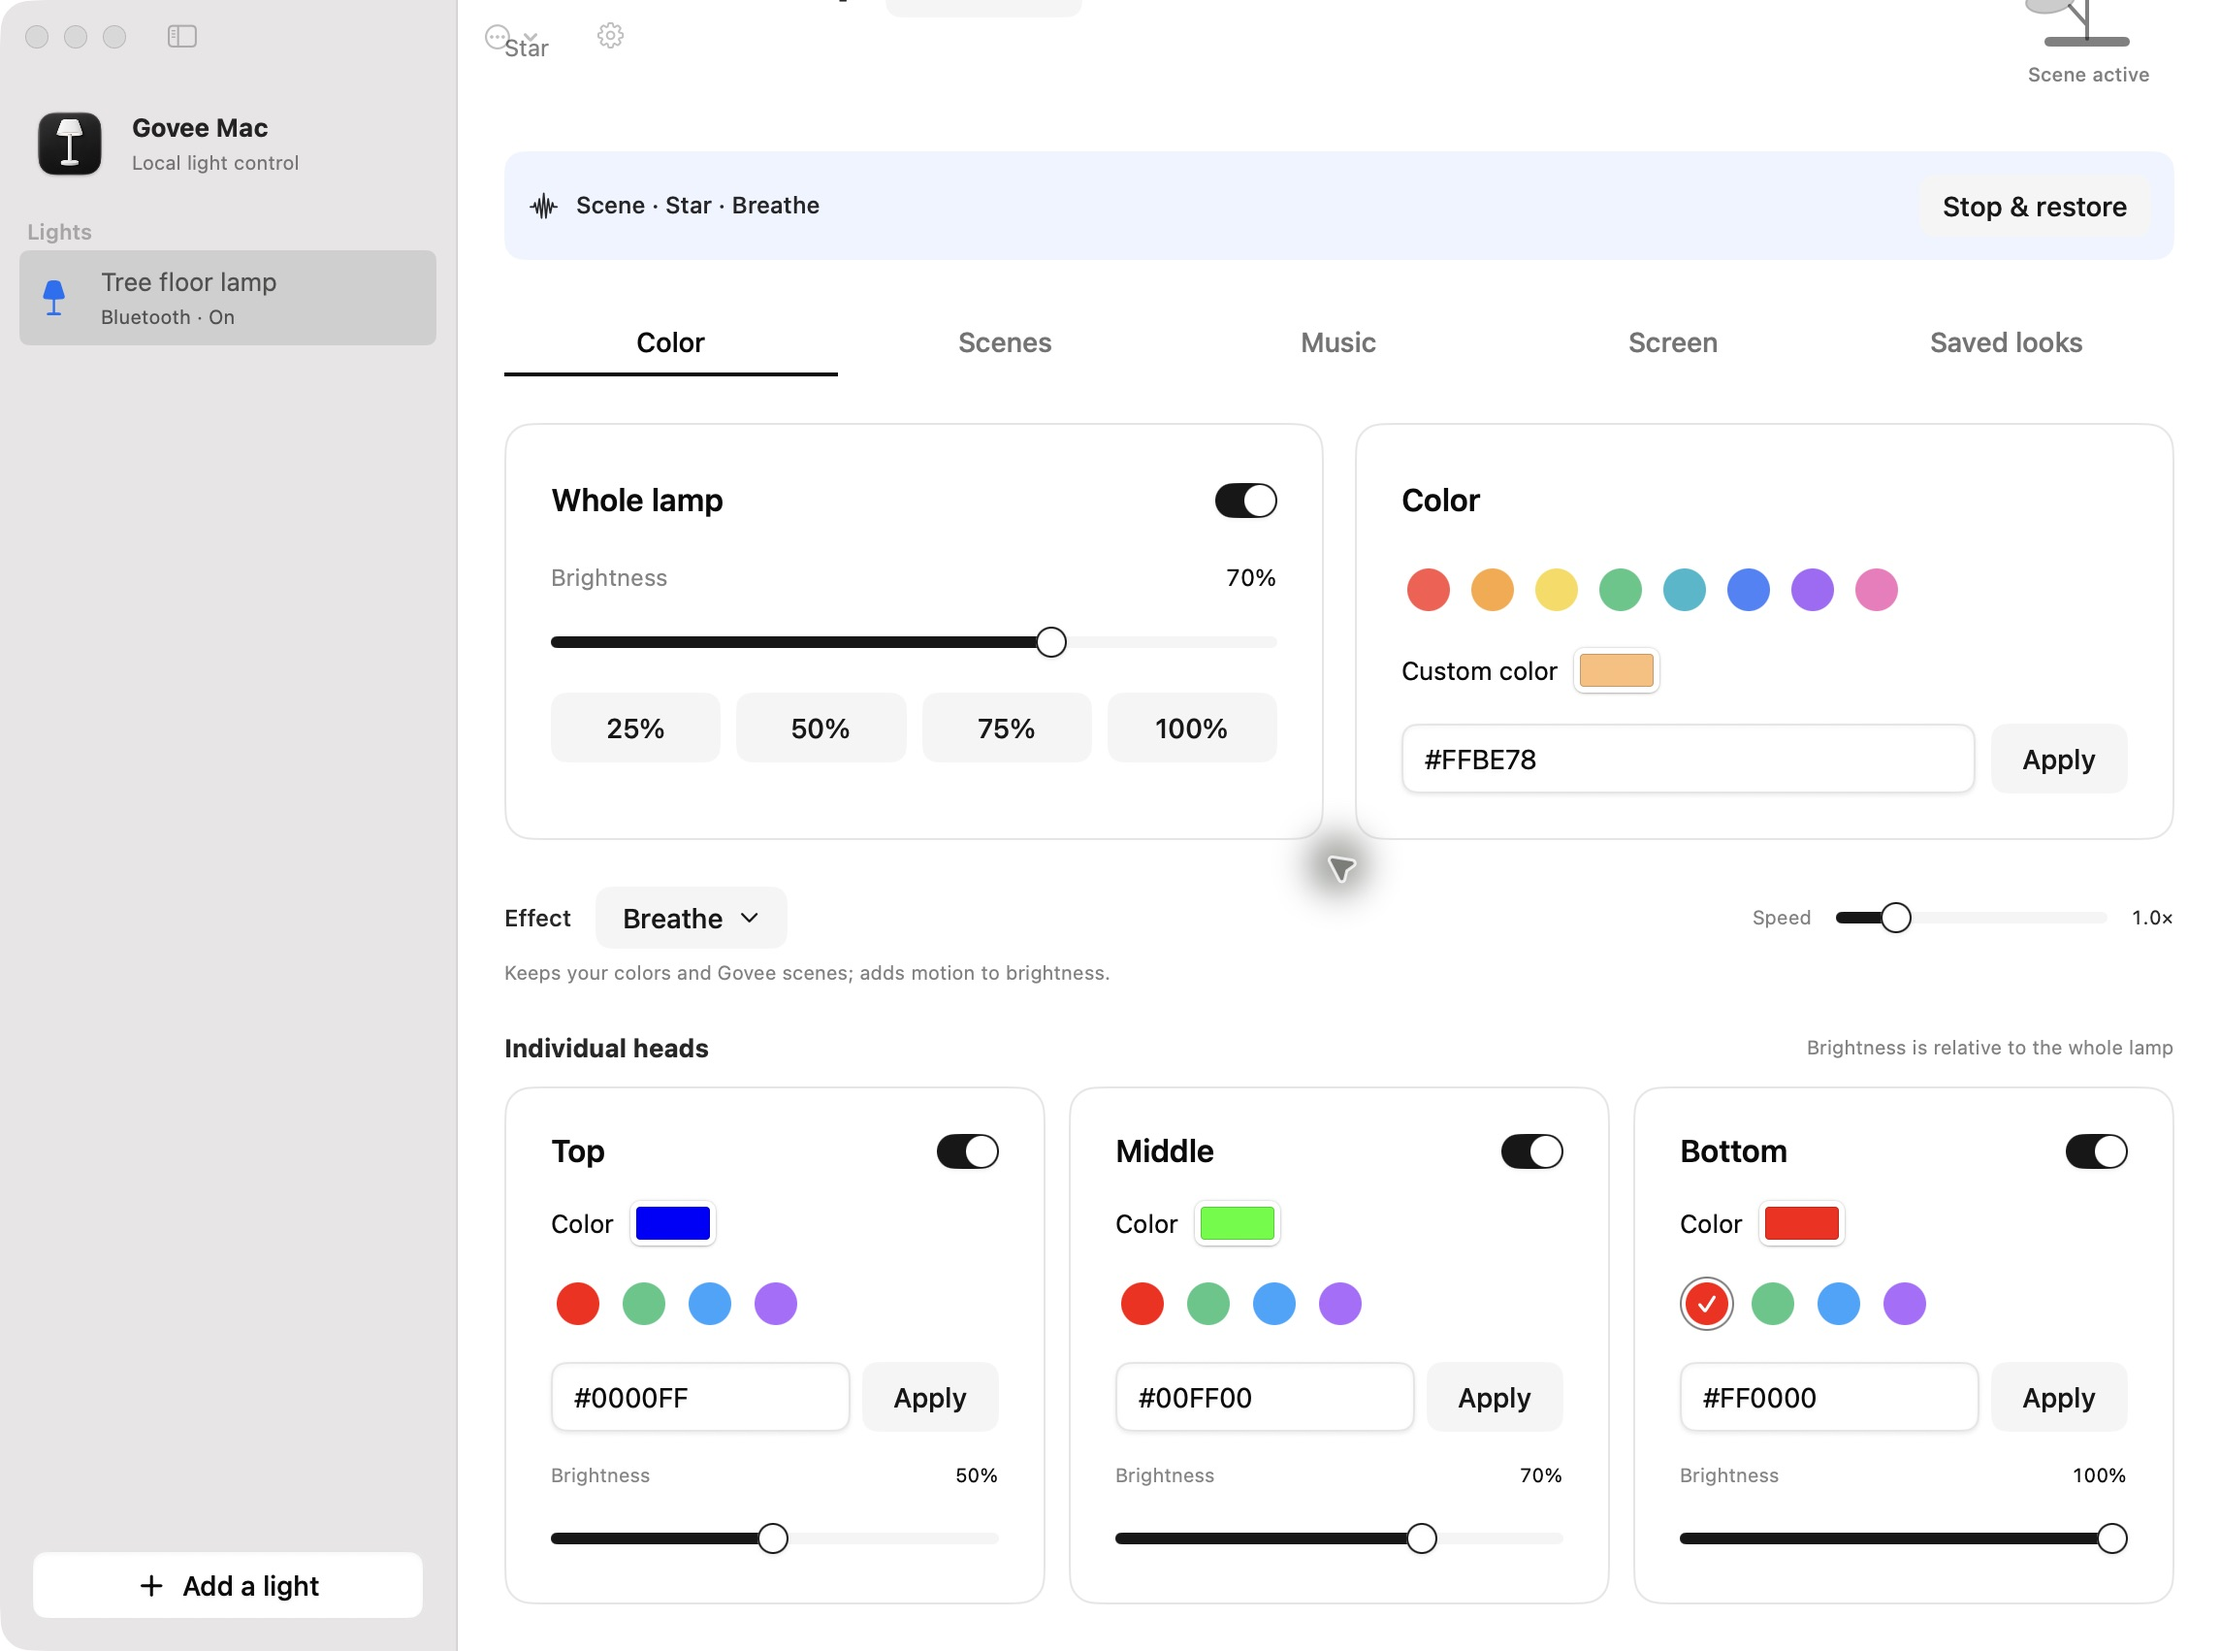
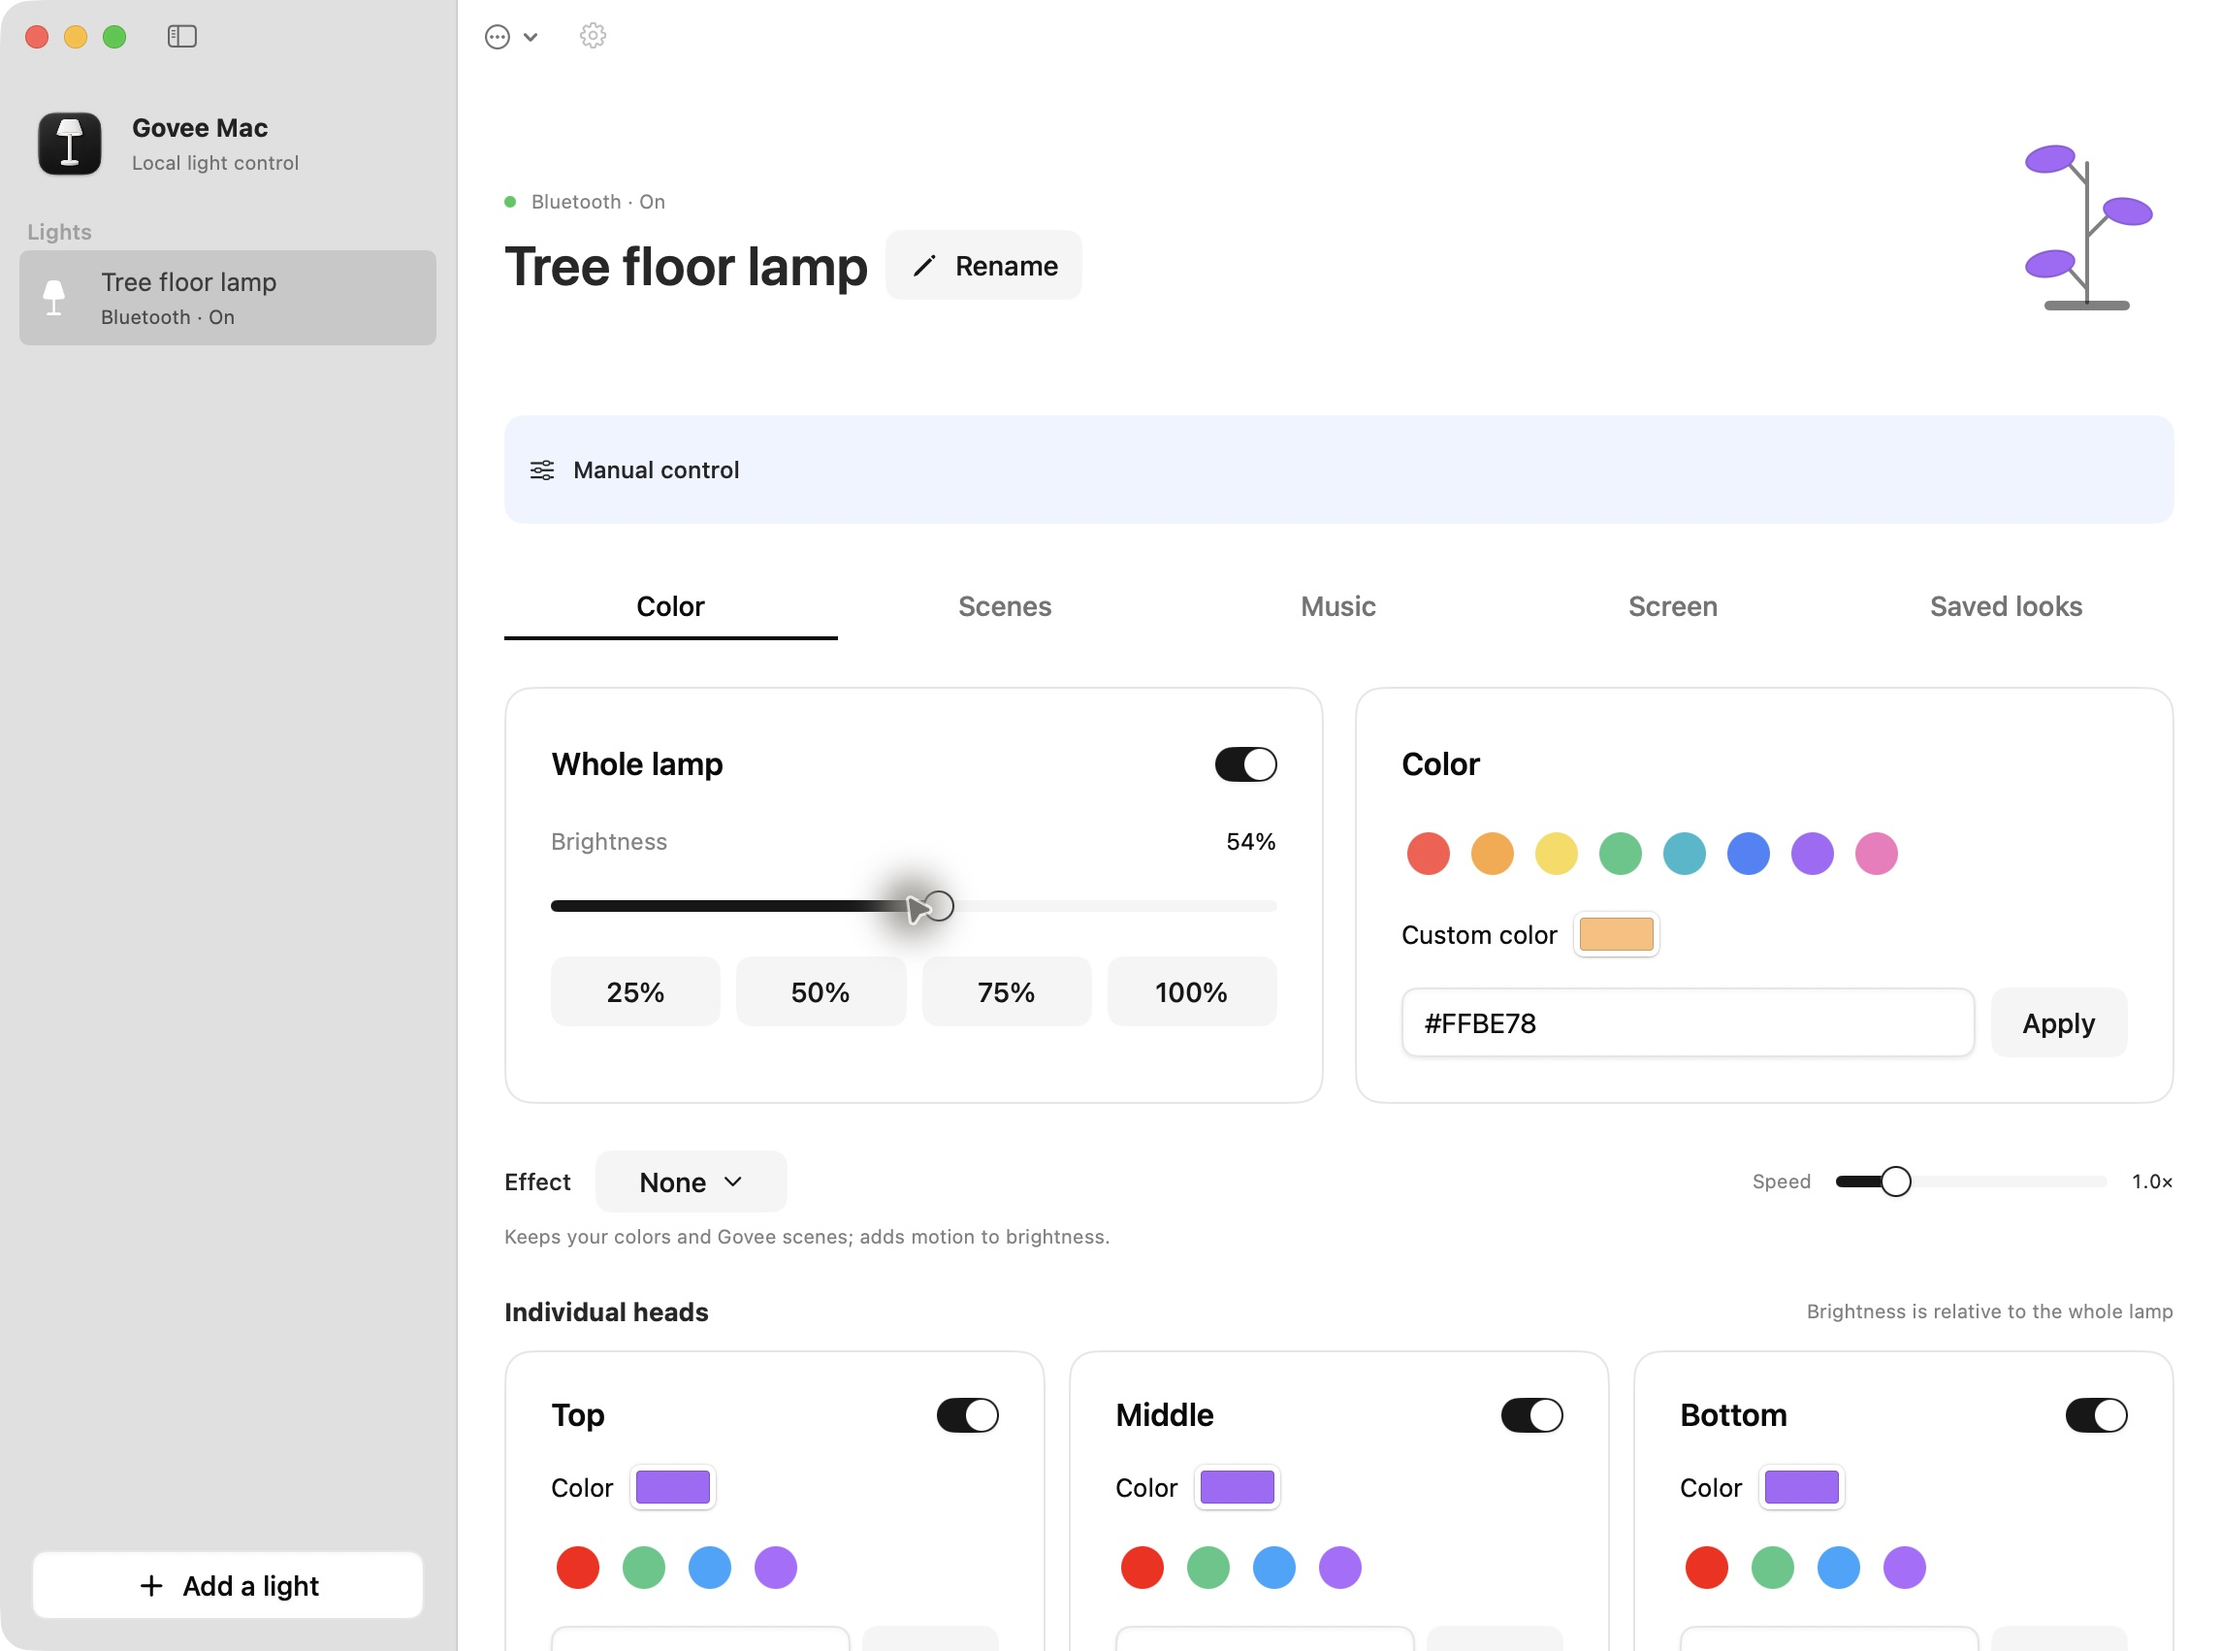
Align the light header and hide slider focus rectangles

diff --git a/Sources/GoveeMac/Views/LightControlsView.swift b/Sources/GoveeMac/Views/LightControlsView.swift
@@ -28,6 +28,7 @@ struct LightControlsView: View {
                     Text("\(Int(brightness))%").font(.callout.monospacedDigit())
                 }
                 ShadcnSlider(value: Binding(get: { brightness }, set: { brightness = $0; store.send(.brightness(Int($0.rounded())), to: device.id, debounce: true) }), in: 1...100, step: 1)
+                    .focusEffectDisabled()
                     .accessibilityLabel("Brightness")
                     .simultaneousGesture(DragGesture(minimumDistance: 0).onChanged { _ in editingBrightness = true }.onEnded { _ in editingBrightness = false })
 
@@ -48,6 +49,7 @@ struct LightControlsView: View {
                 if white {
                     HStack { Text("Temperature").foregroundStyle(.secondary); Spacer(); Text("\(Int(temperature)) K").monospacedDigit() }.font(.callout)
                     ShadcnSlider(value: Binding(get: { temperature }, set: { temperature = $0; store.send(.temperature(Int($0.rounded())), to: device.id, debounce: true) }), in: 2000...9000, step: 100)
+                        .focusEffectDisabled()
                         .accessibilityLabel("White temperature")
                         .simultaneousGesture(DragGesture(minimumDistance: 0).onChanged { _ in editingTemperature = true }.onEnded { _ in editingTemperature = false })
 

diff --git a/Sources/GoveeMac/Views/DeviceDetailView.swift b/Sources/GoveeMac/Views/DeviceDetailView.swift
@@ -78,13 +78,11 @@ struct DeviceDetailView: View {
                     Circle().fill(device.isAvailable ? Color.green : Color.secondary).frame(width: 6, height: 6)
                     Text("\(device.connection.title) · \(device.status)").font(.caption).foregroundStyle(.secondary)
                 }
-                HStack(alignment: .firstTextBaseline, spacing: 8) {
+                HStack(alignment: .center, spacing: 8) {
                     Text(device.name).font(.system(size: 28, weight: .semibold)).lineLimit(2)
                     ShadcnButton("Rename", systemImage: "pencil", variant: .secondary) { newName = device.name; renaming = true }
                         .fixedSize().accessibilityLabel("Rename light").help("Rename this light")
                 }
-                Text(store.activeScenes[device.id] ?? device.model)
-                    .font(.callout).foregroundStyle(.secondary)
             }
             Spacer()
             if device.heads.count == 3 {

diff --git a/Sources/GoveeMac/Views/HeadControlsView.swift b/Sources/GoveeMac/Views/HeadControlsView.swift
@@ -53,6 +53,7 @@ private struct HeadControlCard: View {
             }
             HStack { Text("Brightness").foregroundStyle(.secondary); Spacer(); Text("\(draft.brightness)%").monospacedDigit() }.font(.caption)
             ShadcnSlider(value: Binding(get: { Double(draft.brightness) }, set: { draft.brightness = Int($0.rounded()); send(debounce: true) }), in: 1...100, step: 1)
+                .focusEffectDisabled()
                 .accessibilityLabel("\(label) brightness")
                 .simultaneousGesture(DragGesture(minimumDistance: 0).onChanged { _ in editingBrightness = true }.onEnded { _ in editingBrightness = false })
 

diff --git a/Sources/GoveeMac/Views/ColorEffectsBar.swift b/Sources/GoveeMac/Views/ColorEffectsBar.swift
@@ -35,6 +35,7 @@ struct ColorEffectsBar: View {
                 Spacer(minLength: 0)
                 Text("Speed").font(.caption).foregroundStyle(.secondary)
                 ShadcnSlider(value: Binding(get: { controller.speed }, set: { controller.speed = $0 }), in: 0.1...5, step: 0.1)
+                    .focusEffectDisabled()
                     .frame(maxWidth: 140).accessibilityLabel("Color effect speed")
                 Text("\(controller.speed, specifier: "%.1f")×").font(.caption.monospacedDigit())
             }

diff --git a/Sources/GoveeMac/Views/SyncControlsView.swift b/Sources/GoveeMac/Views/SyncControlsView.swift
@@ -66,6 +66,7 @@ struct SyncControlsView: View {
                             Text("\(live.sensitivity, specifier: "%.1f")×").font(.callout.monospacedDigit())
                         }
                         ShadcnSlider(value: Binding(get: { live.sensitivity }, set: { live.sensitivity = $0 }), in: 0.2...5, step: 0.1)
+                            .focusEffectDisabled()
                             .accessibilityLabel("Music sensitivity")
                     }
                 }

diff --git a/README.md b/README.md
@@ -92,6 +92,8 @@ ShadKit is pinned in `Package.swift` and `Package.resolved` to revision `6dbefde
 
 Page tabs share equal widths, type size, and height. Their buttons compose ShadKit's bare-button style, typography, and palette; selecting a tab changes the page without animating the whole layout. Scene search and category selection survive tab changes. Scene artwork is decoded to small thumbnails off the main thread, with a bounded cache of 128 images reused when returning to Scenes. Screen matching reuses its display list until you refresh it. The release build option above avoids evaluating UI performance in an unoptimized development build.
 
+Rename is centered beside the light's title. The active scene appears in the labeled lighting status row. Sliders hide the rectangular focus highlight while retaining keyboard and accessibility adjustment.
+
 Unchanged Bluetooth keepalives do not refresh device data. Each streamed three-head frame updates the editor once, and transient brightness effects keep the editor at the user's chosen brightness ceiling. The scene browser depends on the model and availability instead of live RGB values. These changes reduce unnecessary SwiftUI updates; scroll frame timing has not been measured.
 
 The approved standing-lamp icon is included as a source PNG and packaged macOS ICNS. See [the icon source and regeneration instructions](docs/icon-source.md).
